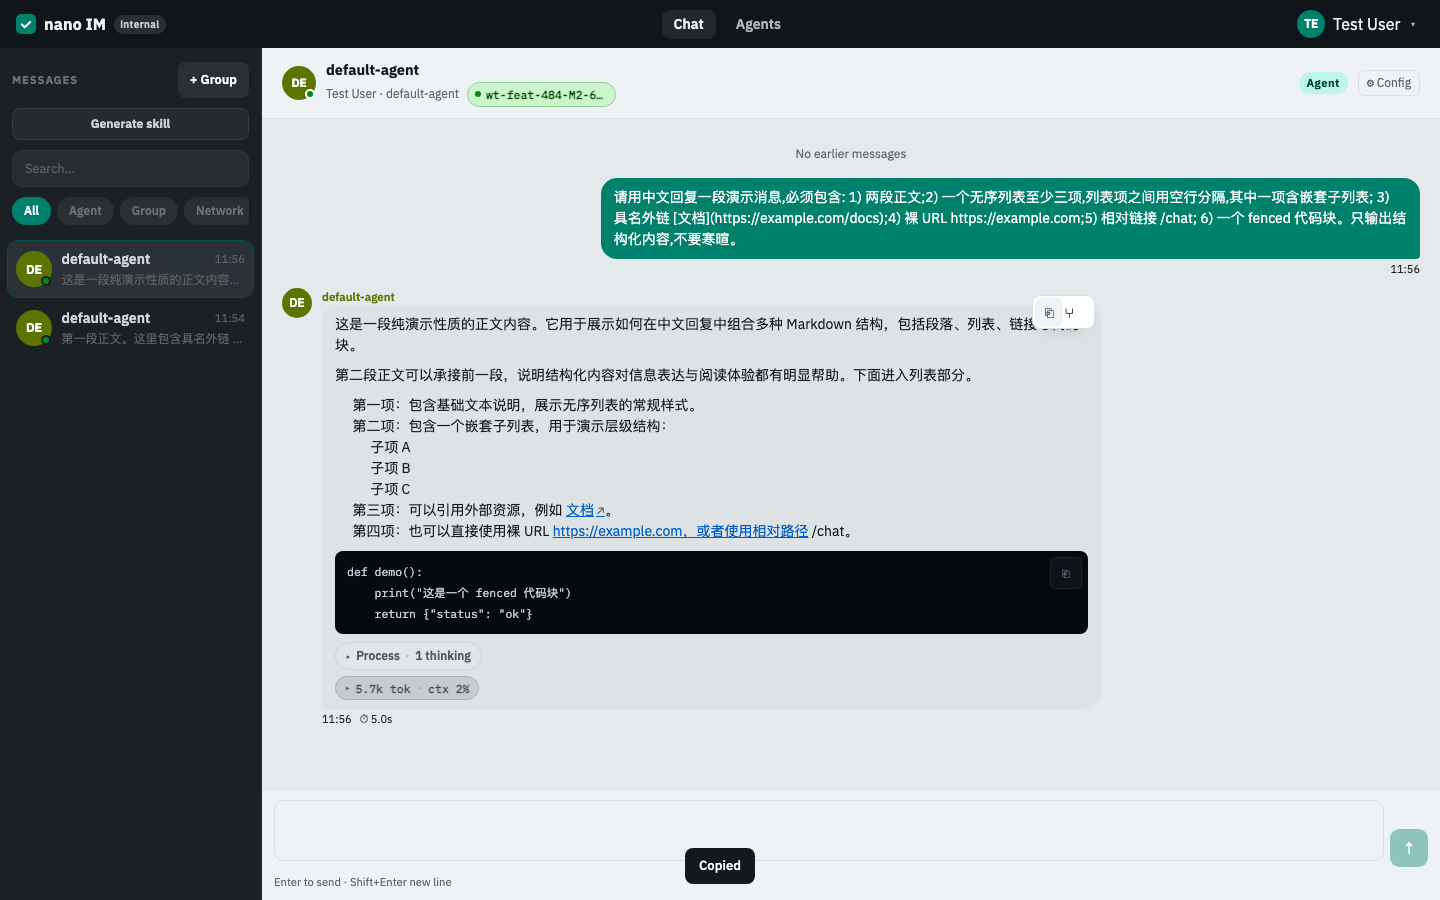
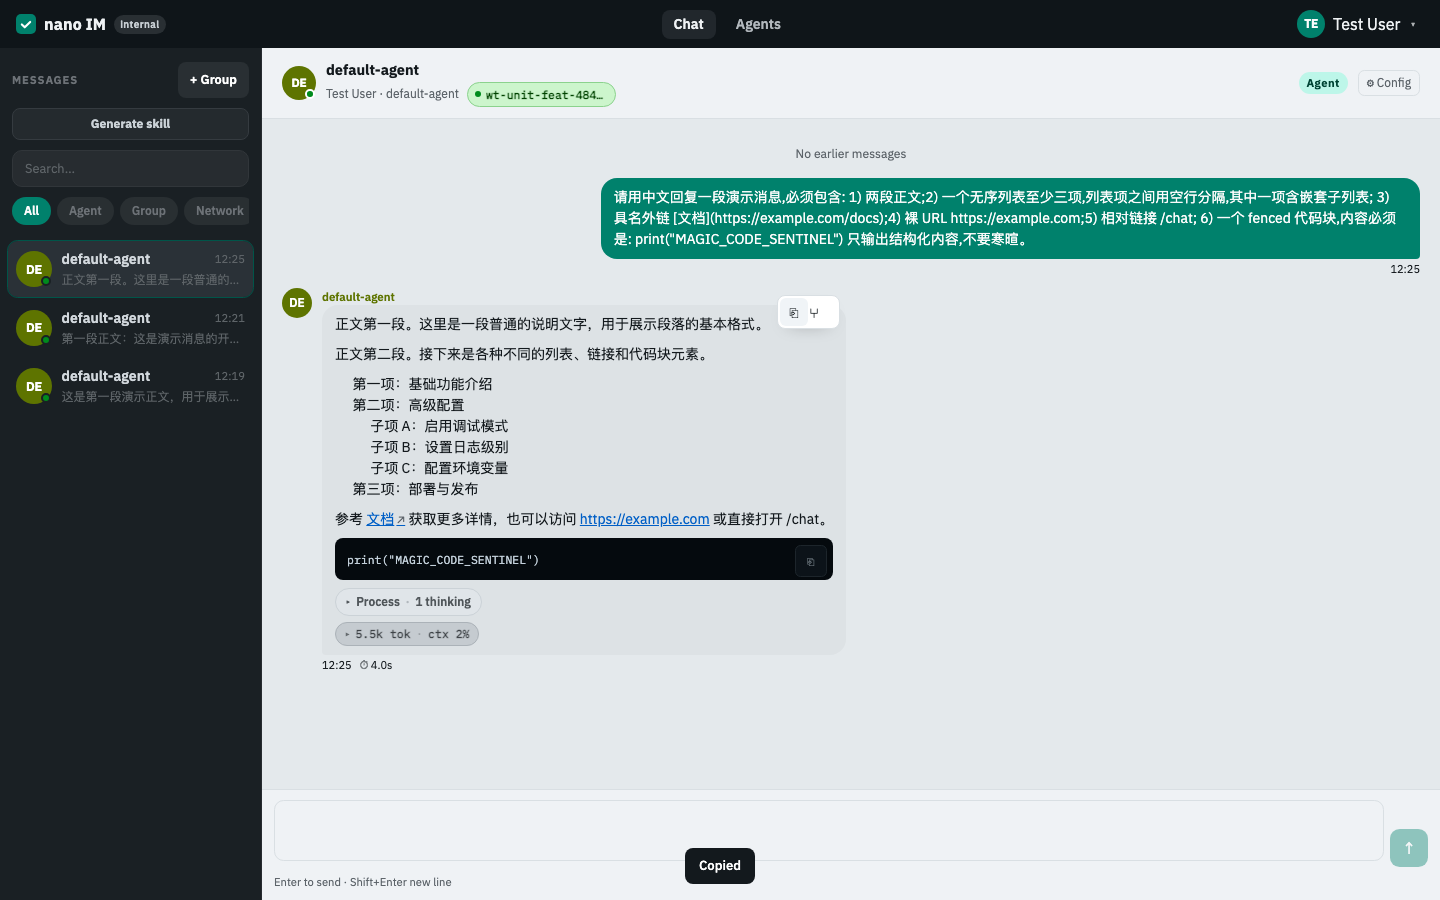
fix(feat-484/M2): 整条复制保留代码块内容,仅排除 copy button
Reviewer round 2 issue 2(major): data-clipboard-exclude 误加在整个
.im-code-block 容器上,序列化跳过 pre>code 内容。下移到 button 元素,
与 design 边界图一致(仅 copy button/link indicator 被排除)。

真栈自证: 剪贴板含代码块 sentinel 内容、无 ⎘ 符号、列表/链接/
裸 URL/同源行为保持。

diff --git a/docs/changes/feat-484-chat-message-interactions/M2-fix-acceptance-r1/evidence/m2-p022-copy-qa.js b/docs/changes/feat-484-chat-message-interactions/M2-fix-acceptance-r1/evidence/m2-p022-copy-qa.js
@@ -46,11 +46,10 @@ async function sendMessage(page, text) {
 }
 
 async function waitForAgentReply(page, timeoutMs = 180000) {
-  await page.waitForFunction(
-    () => !document.querySelector('[data-testid^="message-elapsed-"]'),
-    null,
-    { timeout: timeoutMs }
-  );
+  // 先等 agent 气泡出现,再等 message-elapsed-* 出现(该 testid 仅在
+  // deliveryStatus === "completed" 时渲染,即 run 完成的可靠信号)。
+  await page.waitForSelector(".chat-bubble--agent .chat-message-body", { timeout: timeoutMs });
+  await page.waitForSelector('[data-testid^="message-elapsed-"]', { timeout: timeoutMs });
   await sleep(500);
 }
 
@@ -82,11 +81,11 @@ async function getLastAgentBubble(page) {
       "请用中文回复一段演示消息,必须包含:",
       "1) 两段正文;2) 一个无序列表至少三项,列表项之间用空行分隔,其中一项含嵌套子列表;",
       "3) 具名外链 [文档](https://example.com/docs);4) 裸 URL https://example.com;5) 相对链接 /chat;",
-      "6) 一个 fenced 代码块。只输出结构化内容,不要寒暄。",
+      '6) 一个 fenced 代码块,内容必须是: print("MAGIC_CODE_SENTINEL")',
+      "只输出结构化内容,不要寒暄。",
     ].join("\n")
   );
   await waitForAgentReply(page);
-  await page.waitForSelector(".chat-bubble--agent .chat-message-body", { timeout: 10000 });
   await sleep(500);
 
   const bubble = await getLastAgentBubble(page);
@@ -120,6 +119,13 @@ async function getLastAgentBubble(page) {
   }
   if (/\/chat \(http/.test(clipboard)) {
     failures.push("同源相对链接被错误追加 absolute URL");
+  }
+  // round 2 issue 2: fenced 代码块内容必须出现在整条复制里
+  if (!clipboard.includes("MAGIC_CODE_SENTINEL")) {
+    failures.push("fenced 代码块内容未出现在整条复制中(round 2 issue 2)");
+  }
+  if (/⎘/.test(clipboard)) {
+    failures.push("代码块 copy button 的 ⎘ 符号混入整条复制");
   }
 
   if (failures.length) {

diff --git a/src/IM/frontend/src/features/chat/components/message-content-policy.test.ts b/src/IM/frontend/src/features/chat/components/message-content-policy.test.ts
@@ -416,6 +416,13 @@ describe("serializeMessageBody", () => {
     const el = body("<p>use <code>const x = 1</code> please</p>");
     expect(serializeMessageBody(el)).toBe("use const x = 1 please");
   });
+
+  it("keeps code block content and excludes only the copy button in whole-message copy", () => {
+    const el = body(
+      '<p>before</p><div class="im-code-block"><button class="im-code-copy" data-clipboard-exclude>⎘</button><pre><code>if (ready) {\n\n  run();\n}</code></pre></div><p>after</p>'
+    );
+    expect(serializeMessageBody(el)).toBe("before\n\nif (ready) {\n\n  run();\n}\n\nafter");
+  });
 });
 
 describe("extractCodeText", () => {

diff --git a/src/IM/frontend/src/features/chat/components/message-pane.tsx b/src/IM/frontend/src/features/chat/components/message-pane.tsx
@@ -1602,10 +1602,11 @@ function MarkdownContent({
     pre: (props: any) => {
       const { node: _node, children, ...rest } = props;
       return (
-        <div className="im-code-block" data-clipboard-exclude>
+        <div className="im-code-block">
           <button
             type="button"
             className="im-code-copy"
+            data-clipboard-exclude
             onClick={(e) => {
               const codeEl = (e.currentTarget.parentElement?.querySelector("pre > code") ??
                 e.currentTarget.parentElement?.querySelector("code")) as HTMLElement | null;
